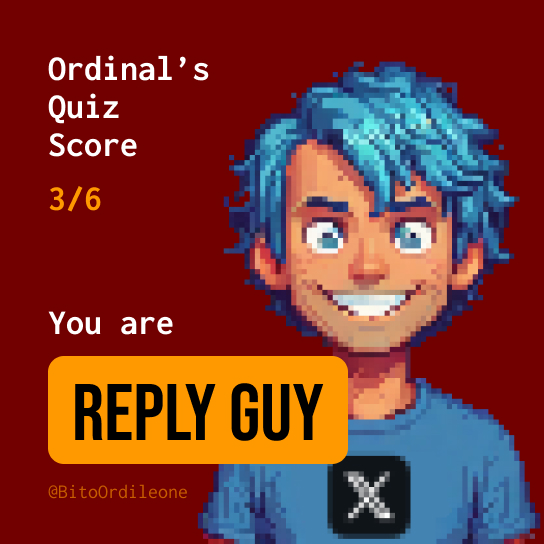
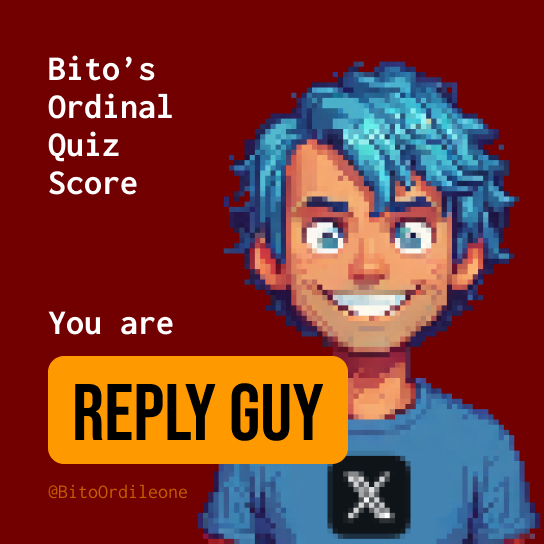
Add files via upload

Changed region(s): [[0.0938, 0.0938, 0.4062, 0.2188], [0.0625, 0.2188, 0.25, 0.4062]]

diff --git a/quiz.js b/quiz.js
@@ -1,27 +1,12 @@
 const questions = [
     {
-        question: "What is the main purpose of Bitcoin Ordinals?",
-        options: ["To increase Bitcoin transaction speed", "To create a fungible token on Bitcoin", "To track and trade individual satoshis", "To enhance Bitcoin's privacy features"],
-        answer: 2
-    },
-    {
         question: "What is the BRC-20 standard used for?",
         options: ["Non-fungible tokens on Bitcoin", "Fungible tokens on Bitcoin", "Smart contracts on Bitcoin", "Privacy transactions on Bitcoin"],
         answer: 1
     },
     {
-        question: "What does WAGMI stand for?",
-        options: ["Whales Are Generously Manipulating Investments", "Wise Assets, Great Monetary Investments", "We're All Gonna Make It", "We’re Actually Gambling, Maybe Ignorantly"],
-        answer: 2
-    },
-    {
         question: "What does DMT-NAT stand for?",
-        options: ["Digital Magic Tokens - Nobody Actually Trades", "Drastically Misunderstood Technology - Never Admits Truth", "Digital Matter Theory - Non-Arbitrary Tokens ", "Decentralized Monetary Transactions - Non-Arbitrary Trades"],
-        answer: 2
-    },
-    {
-        question: "Who introduced the concept of Bitcoin Ordinals?",
-        options: ["Satoshi Nakamoto", "Vitalik Buterin", "Casey Rodarmor", "Gavin Andresen"],
+        options: ["Digital Magic Tokens - Nobody Actually Trades", "Drastically Misunderstood Technology - Never Admits Truth", "Digital Matter Theory - Non-Arbitrary Tokens", "Decentralized Monetary Transactions - Non-Arbitrary Trades"],
         answer: 2
     },
     {
@@ -35,24 +20,19 @@ const questions = [
         answer: 1
     },
     {
+        question: "What is the main purpose of Bitcoin Ordinals?",
+        options: ["To increase Bitcoin transaction speed", "To create a fungible token on Bitcoin", "To track and trade individual satoshis", "To enhance Bitcoin's privacy features"],
+        answer: 2
+    },
+    {
         question: "When was Inscription 0 created?",
         options: ["December 9th 2022", "December 14th 2022", "January 21st 2023", "February 14th 2023"],
         answer: 1
     },
     {
-        question: "How many confirmations are generally recommended to consider a Bitcoin transaction final and irreversible?",
-        options: ["1 confirmation", "3 confirmations", "6 confirmations", "10 confirmations"],
-        answer: 2
-    },
-    {
         question: "Who was the first person to receive a Bitcoin transaction from Satoshi Nakamoto?",
         options: ["Hal Finney", "Nick Szabo", "Adam Back", "Wei Dai"],
         answer: 0
-    },
-    {
-        question: "What does the term “whale” refer to in the Bitcoin world?",
-        options: ["A large sea mammal with a Bitcoin logo", "A person who holds a large amount of Bitcoin", "An underwater Bitcoin mining operation", "A crypto-themed aquatic park"],
-        answer: 1
     },
     {
         question: "What is the purpose of Bitmap according to the Bitmap Theory?",
@@ -65,19 +45,9 @@ const questions = [
         answer: 3
     },
     {
-        question: "Which Bitcoin feature ensures only 21 million coins will ever exist?",
-        options: ["Proof of Work", "Halving events", "Mining difficulty adjustment", "Blockchain immutability"],
-        answer: 1
-    },
-    {
         question: "What is the main function of Bitcoin's mempool?",
         options: ["To store Bitcoin permanently", "To generate new Bitcoin addresses", "To hold unconfirmed transactions", "To track Bitcoin price movements"],
         answer: 2
-    },
-    {
-        question: "Who first managed to inscribe on a Rare Sat?",
-        options: ["Mystic Pepe (@Mystic_Pepe)", "CTRL (@SeizeCTRL)", "BTC Machine (@btcordinal)", "wizardz (@wizardzBTC)"],
-        answer: 1
     },
 ];
 
@@ -127,7 +97,6 @@ function nextQuestion() {
     const selectedOption = Array.from(document.querySelectorAll('.radio-button')).find(button => button.dataset.selected);
     if (selectedOption) {
         const selectedAnswerIndex = parseInt(selectedOption.dataset.index);
-        console.log(`Selected Answer Index: ${selectedAnswerIndex}, Correct Answer Index: ${questions[currentQuestion].answer}`);
         if (selectedAnswerIndex === questions[currentQuestion].answer) {
             score++;
         }
@@ -151,12 +120,16 @@ function prevQuestion() {
 
 function showResults() {
     const totalQuestions = questions.length;
-    const scoreLevel = Math.floor((score / totalQuestions) * 6) + 1; // Ensure scoreLevel is 6 when score is 6/6
-    const scoreWord = ["Normie", "Noob", "Reply Guy", "Degen", "Ordinals OG", "You are Casey Rodarmor"][scoreLevel - 1];
-    const imageUrl = `results-image${scoreLevel}.jpg`;
+    // Mapping the score out of 10 to 6 levels
+    const levelMap = Math.ceil((score / totalQuestions) * 6); // Scale 0-10 to 1-6
+    const scoreLevel = Math.min(levelMap, 6); // Ensure scoreLevel is within 1-6
+    const scoreWords = ["Normie", "Noob", "Reply Guy", "Degen", "Ordinals OG", "Casey Rodarmor"];
+    const scoreWord = scoreWords[scoreLevel - 1]; // Map score level to words
+    const imageUrl = `results-image${scoreLevel}.jpg`; // Assuming image filenames are results-image1.jpg, ..., results-image6.jpg
 
-    console.log(`Score: ${score}, Score Level: ${scoreLevel}, Score Word: ${scoreWord}`); // Debugging log
+    console.log(`Score: ${score}, Score Level: ${scoreLevel}, Score Word: ${scoreWord}`);
 
+    localStorage.setItem('score', score); // Store the raw score out of 10
     localStorage.setItem('scoreLevel', scoreLevel);
     localStorage.setItem('scoreWord', scoreWord);
     localStorage.setItem('imageUrl', imageUrl);
@@ -174,18 +147,17 @@ function shareResults() {
     const scoreLevel = localStorage.getItem('scoreLevel');
     const scoreWord = localStorage.getItem('scoreWord');
 
-    // Define the image URLs for each score level
     const imageUrls = {
-        1: "pic.twitter.com/gyAa48dizO", // Replace with the actual tweet URL for image 1
-        2: "pic.twitter.com/hijf9Zx6kw", // Replace with the actual tweet URL for image 2
-        3: "pic.twitter.com/Az301fVf4D", // Replace with the actual tweet URL for image 3
-        4: "pic.twitter.com/vHeefX1nYR", // Replace with the actual tweet URL for image 4
-        5: "pic.twitter.com/xt5VJ6cqzg", // Replace with the actual tweet URL for image 5
-        6: "pic.twitter.com/MLQR8rWG9x"  // Replace with the actual tweet URL for image 6
+        1: "pic.twitter.com/r8FHcmrXYW",
+        2: "pic.twitter.com/kwQgVZaHxY",
+        3: "pic.twitter.com/Xv6PmGEB4t",
+        4: "pic.twitter.com/chWwtB5gwq",
+        5: "pic.twitter.com/hsxKCoZCjo",
+        6: "pic.twitter.com/JpmiU1Z2G1"
     };
 
-    const imageUrl = imageUrls[scoreLevel]; // Get the image URL for the current score level
-    const tweetText = `I scored ${scoreLevel}/6 (${scoreWord}) on @bitoordileone Ordinals Quiz! Can you do better anon? Tast your knowledge`;
+    const imageUrl = imageUrls[scoreLevel] || "pic.twitter.com/A4x55Msq2r";
+    const tweetText = `I am "${scoreWord}" on @bitoordileone Ordinals Quiz! Can you do better anon? Test your knowledge https://bitoordileone.github.io/Bitos-Ordinals-Quiz/ and share the result!`;
     const encodedTweetText = encodeURIComponent(tweetText);
     const tweetUrl = `https://twitter.com/intent/tweet?text=${encodedTweetText}%20${encodeURIComponent(imageUrl)}`;
     window.open(tweetUrl, '_blank');
@@ -222,14 +194,19 @@ document.addEventListener("DOMContentLoaded", () => {
         const scoreWord = localStorage.getItem('scoreWord');
         const imageUrl = localStorage.getItem('imageUrl');
         if (scoreLevel && scoreWord && imageUrl) {
-            document.getElementById('results-level').innerText = `${scoreLevel}/6`;
+            // Hide the results-level element if it exists
+            const resultsLevel = document.getElementById('results-level');
+            if (resultsLevel) {
+                resultsLevel.style.display = 'none'; // Hide the element
+            }
+            // Display the score word and image
             document.getElementById('results-word').innerText = scoreWord;
             document.querySelector('.results-image').src = imageUrl;
         } else {
-            // If for some reason the data is missing, redirect to start over
             startOver();
         }
     } else {
         showQuestion(currentQuestion);
     }
 });
+
